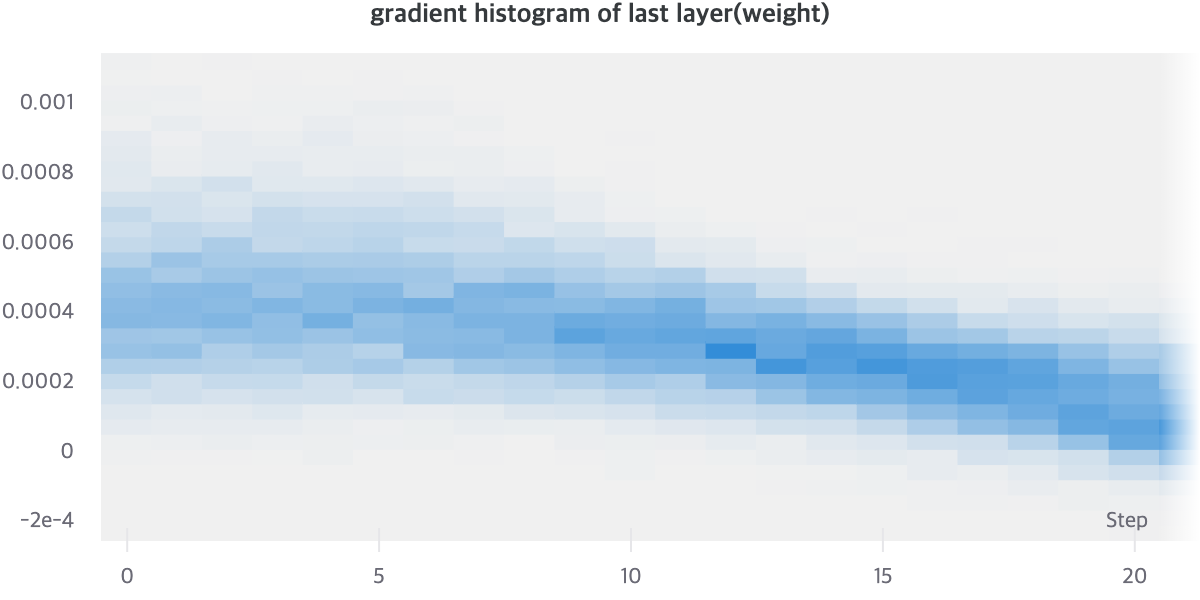
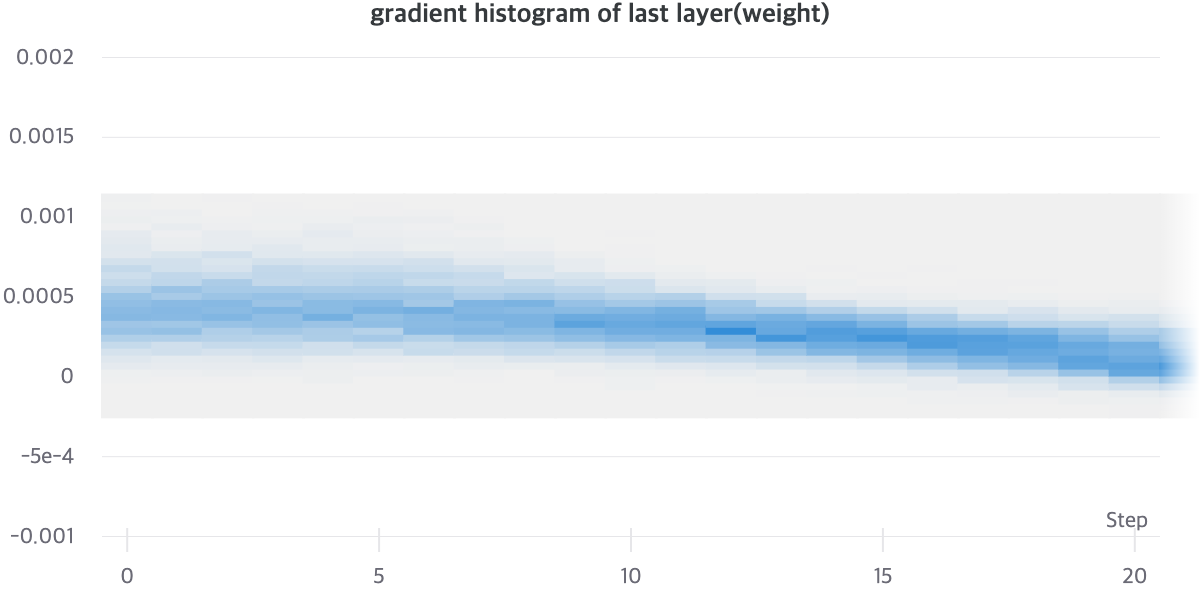
edit image & add sentence

diff --git a/_posts/2020-12-29-Gradient-Accumulation.md b/_posts/2020-12-29-Gradient-Accumulation.md
@@ -212,7 +212,7 @@ Gradient Accumulation을 통해서 불안정적이던 학습을 안정적으로 
 
 ### Gradient Accumulation
 
-아래의 [그래프3]은 Residual AutoEncoder를 batch size 6000으로 학습시킨 결과입니다. [그래프2]와 비교해봤을 때, 안정적인 경향성을 보입니다.
+아래의 [그래프3]은 Residual AutoEncoder를 batch size 6000으로 학습시킨 결과입니다. [그래프2]와 비교해봤을 때, 안정적인 경향성을 보입니다. Step 20을 보면, [그래프2]와 비교했을 때, 더 모여있는 모습을 볼 수 있습니다.
 
 <figure class="image" style="align: center;">
 <p align="center">
